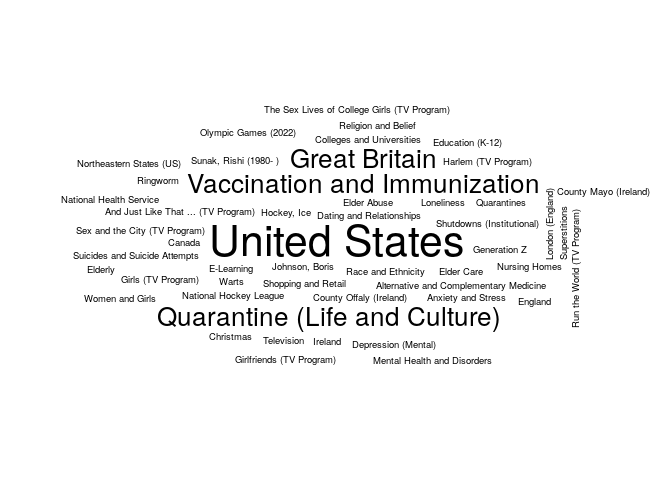
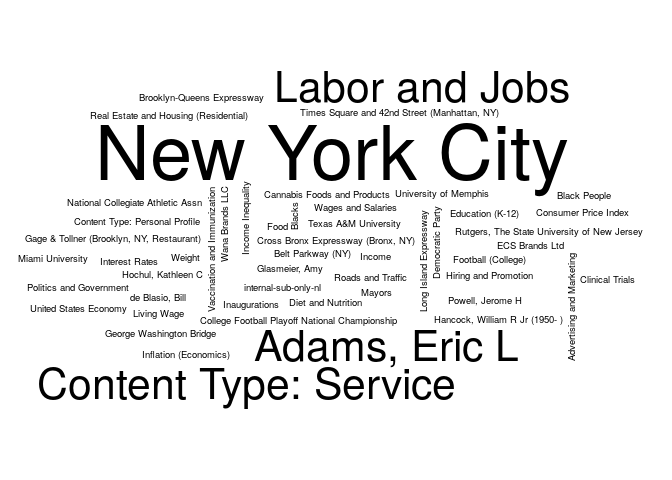
Updating the NYT report

Changed region(s): [[0.0312, 0.1562, 0.9688, 0.8438], [0.0312, 0.75, 0.2812, 0.8438]]

diff --git a/03-nytimes/README.md b/03-nytimes/README.md
@@ -5,7 +5,7 @@ The following is an example of how to use the [NYTimes
 API](https://developer.nytimes.com/) to get a list of articles related
 to a particular term. Here we are searching articles that include the
 term `"health"`, and that were published up to seven days ago since
-2021-12-27.
+2022-01-03.
 
 ``` r
 # Preparing a function to use the GET method with the NYTimes API
@@ -83,25 +83,25 @@ colnames(tab) <- c("Keyword", "# Articles")
 knitr::kable(tab, row.names = FALSE)
 ```
 
-| Keyword                                | \# Articles |
-|:---------------------------------------|------------:|
-| Coronavirus (2019-nCoV)                |          50 |
-| Coronavirus Omicron Variant            |          40 |
-| United States                          |          30 |
-| Great Britain                          |          20 |
-| Quarantine (Life and Culture)          |          20 |
-| Vaccination and Immunization           |          20 |
-| Alternative and Complementary Medicine |          10 |
-| And Just Like That … (TV Program)      |          10 |
-| Anxiety and Stress                     |          10 |
-| Canada                                 |          10 |
-| Christmas                              |          10 |
-| Colleges and Universities              |          10 |
-| County Mayo (Ireland)                  |          10 |
-| County Offaly (Ireland)                |          10 |
-| Dating and Relationships               |          10 |
-| Depression (Mental)                    |          10 |
-| E-Learning                             |          10 |
-| Education (K-12)                       |          10 |
-| Elder Abuse                            |          10 |
-| Elder Care                             |          10 |
+| Keyword                                        | \# Articles |
+|:-----------------------------------------------|------------:|
+| Coronavirus (2019-nCoV)                        |          30 |
+| New York City                                  |          30 |
+| Adams, Eric L                                  |          20 |
+| Content Type: Service                          |          20 |
+| Labor and Jobs                                 |          20 |
+| Advertising and Marketing                      |          10 |
+| Belt Parkway (NY)                              |          10 |
+| Black People                                   |          10 |
+| Blacks                                         |          10 |
+| Brooklyn-Queens Expressway                     |          10 |
+| Cannabis Foods and Products                    |          10 |
+| Clinical Trials                                |          10 |
+| College Football Playoff National Championship |          10 |
+| Consumer Price Index                           |          10 |
+| Content Type: Personal Profile                 |          10 |
+| Cross Bronx Expressway (Bronx, NY)             |          10 |
+| de Blasio, Bill                                |          10 |
+| Democratic Party                               |          10 |
+| Diet and Nutrition                             |          10 |
+| ECS Brands Ltd                                 |          10 |
